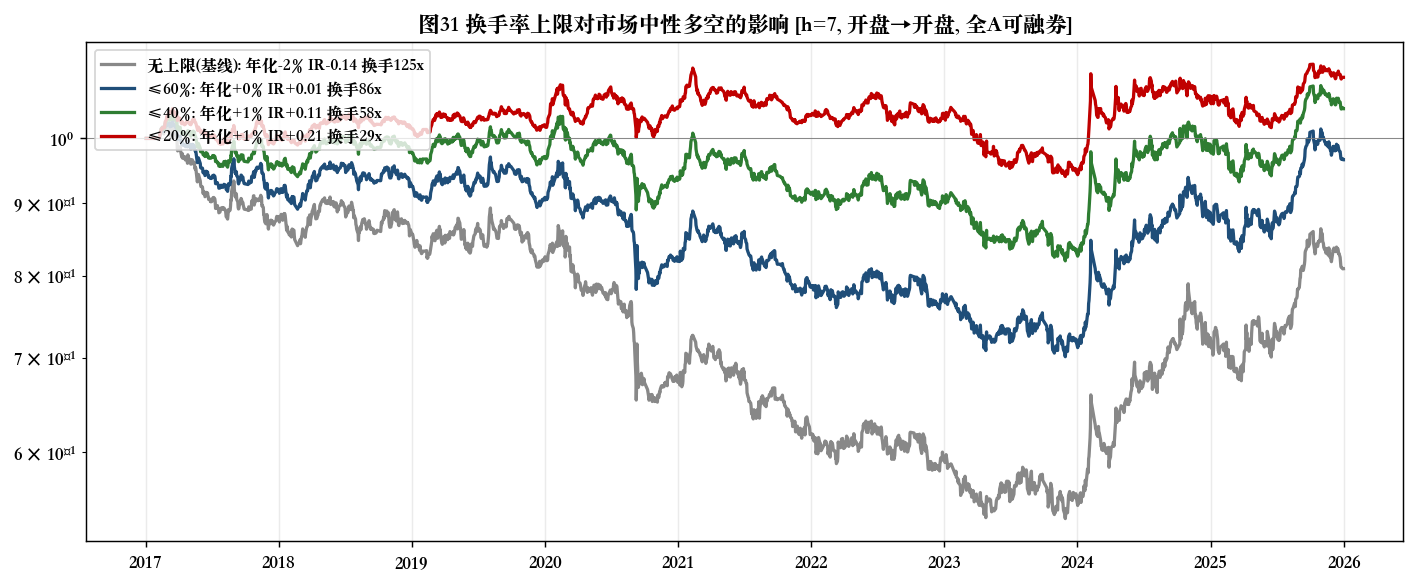
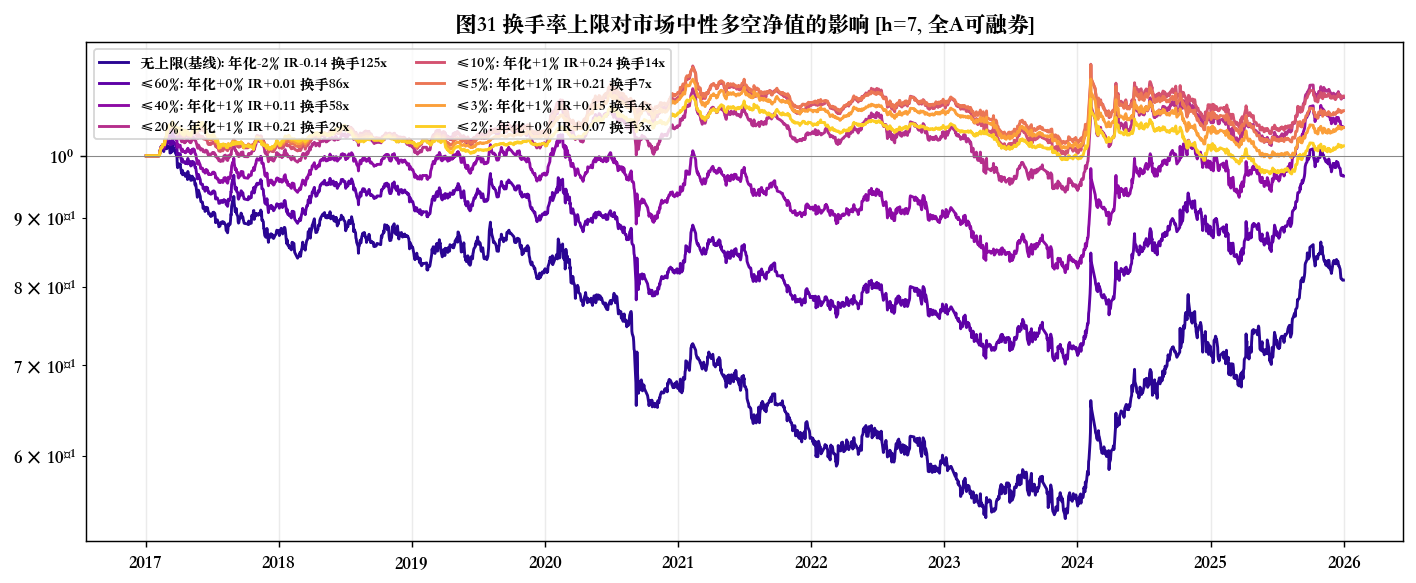
§3.6 turnover inflection: extend caps to ≤2%; IR peaks at ≤10%, return at ≤20%
Extends the per-leg turnover-cap sweep to ≤10/5/3/2% and adds fig32 (inflection
curve). The return/IR vs cap is an inverted U: too loose = cost-dominated (baseline
IR -0.14), too tight = signal diluted to ~0 (at ≤2% the long/short leg contributions
collapse to 0). IR peaks at ≤10% (0.24), annual return peaks at ≤20% (+1.4%); sweet
spot is 10-20% one-side per leg (≈14-29x annual two-way, cost ~20%->~3%/yr, maxDD
-47%->-14%). Empirical version of the report's §3.5 turnover/excess optimum. Even at
the peak the OOS tradable return is thin (+1.3%, IR 0.24, still short-side driven).
fig31 now shows all 8 NAV curves; adds fig32 + updates table/RESULTS.

diff --git a/scripts/market_neutral.py b/scripts/market_neutral.py
@@ -117,7 +117,8 @@ def main():
     bo = csi.set_index("trade_date")["open"].reindex(dates).astype(float)
     mkt = bo.shift(-1) / bo - 1.0
 
-    caps = [("无上限(基线)", None), ("≤60%", 0.60), ("≤40%", 0.40), ("≤20%", 0.20)]
+    caps = [("无上限(基线)", None), ("≤60%", 0.60), ("≤40%", 0.40), ("≤20%", 0.20),
+            ("≤10%", 0.10), ("≤5%", 0.05), ("≤3%", 0.03), ("≤2%", 0.02)]
     results, navs = [], {}
     for name, cap in caps:
         dd, ann_turn = run_ls(op, amt, pw, oo_daily, mkt, codes, dates, st_iv, cap)
@@ -150,18 +151,34 @@ def main():
         f.write("_单次单腿换手上限; 通过向新 decile 部分移动实现_\n\n")
         f.write(fmt.to_markdown() + "\n")
 
+    # fig31: NAV overlay (colormap, tight cap = warm)
     fig, ax = plt.subplots(figsize=(11, 4.6))
-    cols = {"无上限(基线)": GREY, "≤60%": BLUE, "≤40%": GREEN, "≤20%": RED}
     x = pd.to_datetime([str(v) for v in navs["无上限(基线)"]["trade_date"]], format="%Y%m%d")
-    for name, _ in caps:
-        s = stats(navs[name])
-        ax.plot(x, navs[name]["nav_ls"], color=cols[name], lw=1.8,
-                label=f"{name}: 年化{s['ann']*100:+.0f}% IR{s['ir']:+.2f} 换手{[r[5] for r in results if r[0]==name][0]:.0f}x")
+    cmap = plt.cm.plasma(np.linspace(0.05, 0.9, len(caps)))
+    for (name, _), col in zip(caps, cmap):
+        s = stats(navs[name]); tn = [r[5] for r in results if r[0] == name][0]
+        ax.plot(x, navs[name]["nav_ls"], color=col, lw=1.6,
+                label=f"{name}: 年化{s['ann']*100:+.0f}% IR{s['ir']:+.2f} 换手{tn:.0f}x")
     ax.set_yscale("log"); ax.axhline(1, color="grey", lw=0.5)
-    ax.set_title("图31 换手率上限对市场中性多空的影响 [h=7, 开盘→开盘, 全A可融券]")
-    ax.legend(loc="upper left", fontsize=9); ax.grid(alpha=0.25)
+    ax.set_title("图31 换手率上限对市场中性多空净值的影响 [h=7, 全A可融券]")
+    ax.legend(loc="upper left", fontsize=8, ncol=2); ax.grid(alpha=0.25)
     fig.tight_layout(); fig.savefig(os.path.join(config.FIGURE_DIR, "fig31_turnover_caps.png"), dpi=130, bbox_inches="tight"); plt.close(fig)
-    print(fmt.to_string())
+
+    # fig32: inflection — return & IR vs turnover cap
+    labels = list(tab.index); anns = (tab["年化收益"] * 100).to_numpy(); irs = tab["IR"].to_numpy()
+    best_i = int(np.nanargmax(irs))
+    fig, ax1 = plt.subplots(figsize=(9, 4.6))
+    bars = ax1.bar(range(len(labels)), anns, color=[GREEN if v >= 0 else RED for v in anns], alpha=0.8)
+    ax1.set_ylabel("年化收益 (%)"); ax1.axhline(0, color="grey", lw=0.6)
+    ax1.set_xticks(range(len(labels))); ax1.set_xticklabels(labels, fontsize=9, rotation=15)
+    ax2 = ax1.twinx(); ax2.plot(range(len(labels)), irs, color=BLUE, marker="o", lw=2, label="IR")
+    ax2.set_ylabel("IR", color=BLUE)
+    ax2.scatter([best_i], [irs[best_i]], s=140, facecolors="none", edgecolors=RED, lw=2, zorder=5)
+    ax2.annotate(f"拐点 {labels[best_i]}\nIR={irs[best_i]:.2f}", (best_i, irs[best_i]),
+                 textcoords="offset points", xytext=(6, -28), fontsize=10, color=RED)
+    ax1.set_title("图32 换手率拐点: 年化收益/IR vs 单次换手上限 [越紧→成本越省, 信号越稀]")
+    fig.tight_layout(); fig.savefig(os.path.join(config.FIGURE_DIR, "fig32_turnover_inflection.png"), dpi=130, bbox_inches="tight"); plt.close(fig)
+    print(fmt.to_string()); print(f"\n拐点(IR最大) = {labels[best_i]}  IR={irs[best_i]:.2f}  年化={anns[best_i]:.1f}%")
 
 
 if __name__ == "__main__":

diff --git a/RESULTS.md b/RESULTS.md
@@ -194,22 +194,27 @@ OLS 随因子增多发散，岭回归稳定（见 [NOTES.md](NOTES.md)）。
 
 图30：市场中性净值（绿）+ 多头腿/空头腿/中证500 分解。
 
-### 强制换手率上限（§3.5 风险约束法，图31）
+### 强制换手率上限与拐点（§3.5 风险约束法，图31/32）
 基线换手 **125 倍/年**（单次单腿≈100% 全换）。对单次单腿换手设上限（向新 decile 部分移动实现），
-扫描 ≤60% / ≤40% / ≤20%：
+从 ≤60% 一路扫到 ≤2%：
 
 | 换手上限 | 年化收益 | IR | 最大回撤 | 年化双边换手 | 多头超额 | 空头贡献 |
 |---|---|---|---|---|---|---|
 | 无上限(基线) | −1.7% | −0.14 | −47.3% | 125倍 | −14.5% | +31.4% |
 | ≤60% | +0.1% | 0.01 | −31.9% | 86倍 | −12.0% | +24.9% |
 | ≤40% | +0.9% | 0.11 | −21.1% | 58倍 | −9.7% | +19.2% |
-| **≤20%** | **+1.4%** | **+0.21** | **−16.2%** | 29倍 | −6.4% | +12.0% |
+| ≤20% | **+1.4%** | 0.21 | −16.2% | 29倍 | −6.4% | +12.0% |
+| **≤10%** | +1.3% | **0.24** | −14.0% | 14倍 | −3.6% | +7.0% |
+| ≤5% | +1.0% | 0.21 | −12.5% | 7倍 | −1.3% | +3.4% |
+| ≤3% | +0.7% | 0.15 | −12.6% | 4倍 | −0.3% | +1.5% |
+| ≤2% | +0.3% | 0.07 | −12.4% | 3倍 | +0.2% | +0.5% |
 
-- **策略是成本主导的**：收紧换手上限**单调改善** 收益/IR/回撤——从 −1.7% / IR −0.14 / 回撤 −47%
-  一路改善到 **≤20% 的 +1.4% / IR +0.21 / 回撤 −16%**，换手从 125 倍降到 29 倍（成本 ~20%→~5%/年）。
-- 信号被稀释（多头负担、空头贡献都缩小），但**省下的成本 > 稀释的信号**，故净值变好；趋势显示
-  更低的上限可能还能再好一点（成本仍是 binding）。这正是研报 §3.5"换手与超额的最优平衡"的实证。
-- **但即便最优档（≤20%）也只是 +1.4% / IR 0.21**——样本外现实可交易收益仍很薄。
+- **换手拐点 = 倒 U 型**（图32）：太松 → 成本主导（基线 IR −0.14）；太紧 → 信号被稀释到 0
+  （≤2% 时多头超额/空头贡献都≈0）。**IR 在 ≤10% 达峰（0.24）**，**收益在 ≤20% 达峰（+1.4%）**。
+- 最优区间 **单次单腿 10–20%**（≈年化双边 14–29 倍）：把换手从 125 倍砍到 ~14 倍，成本 ~20%→~3%/年，
+  回撤 −47%→−14%。这正是研报 §3.5"换手率与超额的最优平衡（不可能三角的拐点）"的实证版。
+- **但即便拐点（≤10%）也只有 +1.3% / IR 0.24 / 回撤 −14%**——样本外现实可交易收益依然很薄、
+  且收益仍主要靠空头（≤10% 时空头贡献 +7.0% vs 多头 −3.6%）。
 
 ## §3.6.3 交易成本敏感性（退化）
 研报中 Tc 0.3%→1% 是对一个**盈利**策略的优雅衰减（超额 50%→21%）。本复现可交易毛

diff --git a/report/tables/market_neutral.md b/report/tables/market_neutral.md
@@ -8,3 +8,7 @@ _单次单腿换手上限; 通过向新 decile 部分移动实现_
 | ≤60%         | 0.1%       | 9.9%       |  0.01 | -31.9%     | 86倍           | -12.0%     | 24.9%      |
 | ≤40%         | 0.9%       | 8.3%       |  0.11 | -21.1%     | 58倍           | -9.7%      | 19.2%      |
 | ≤20%         | 1.4%       | 6.6%       |  0.21 | -16.2%     | 29倍           | -6.4%      | 12.0%      |
+| ≤10%         | 1.3%       | 5.6%       |  0.24 | -14.0%     | 14倍           | -3.6%      | 7.0%       |
+| ≤5%          | 1.0%       | 4.9%       |  0.21 | -12.5%     | 7倍            | -1.3%      | 3.4%       |
+| ≤3%          | 0.7%       | 4.4%       |  0.15 | -12.6%     | 4倍            | -0.3%      | 1.5%       |
+| ≤2%          | 0.3%       | 4.1%       |  0.07 | -12.4%     | 3倍            | 0.2%       | 0.5%       |
